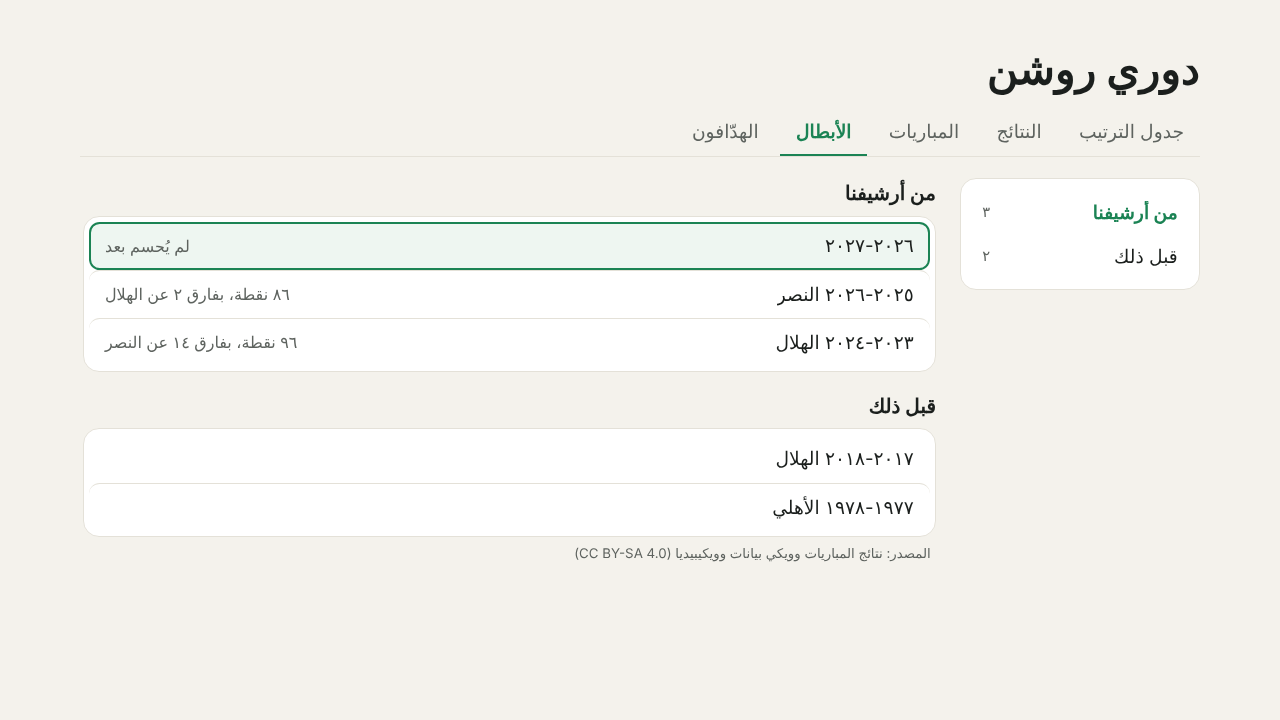
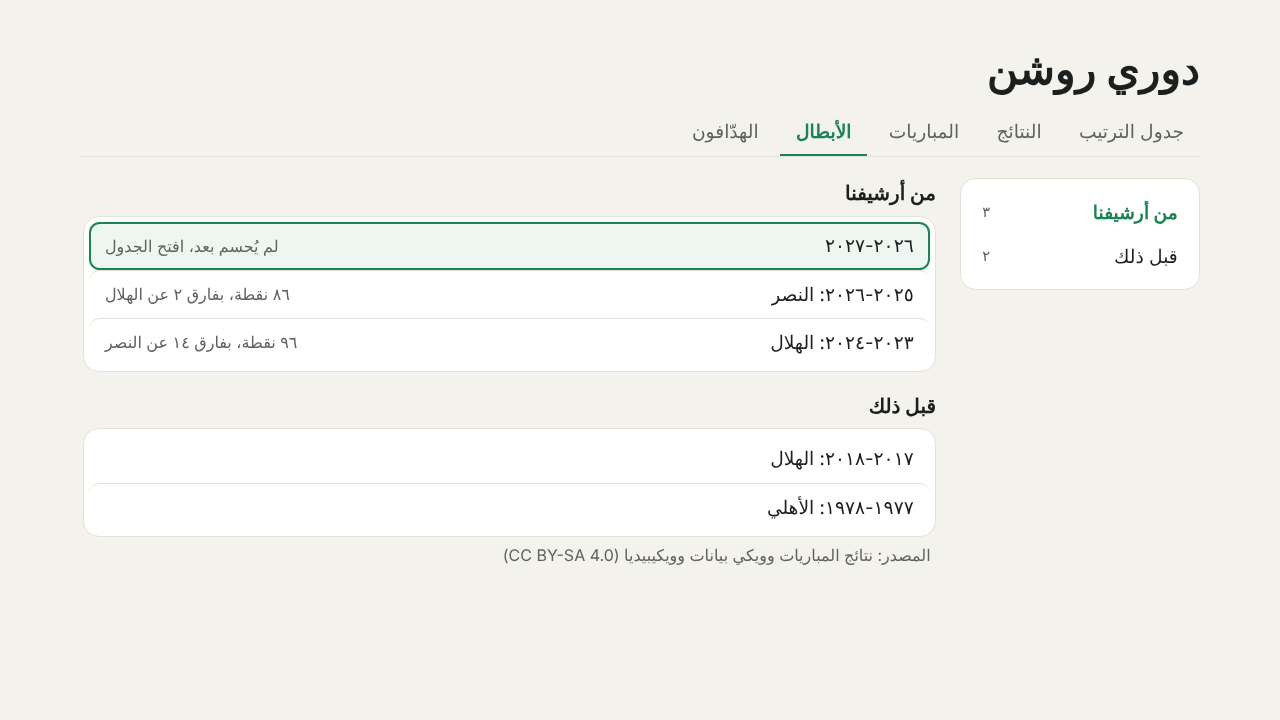
4.4 beta 2 honours, the UI review: the source line as big as the rows' muted text; «الموسم: النادي»; «لم يُحسم بعد، افتح الجدول» first, the focus on it; screenshots again

diff --git a/src/sports.js b/src/sports.js
@@ -367,7 +367,7 @@ function spScoreWatch(now){
 // its champions season by season and its top scorers from the weekly files (data-honours, urtv-data first: champions/ cross-checked, scorers/
 // CC BY-SA 4.0, their source said under them). A club's count of titles only when its league's list is complete; else its latest title only.
 const HW = {nowS:'الحالي', tableOf:'جدول الترتيب النهائي %s', resultsOf:'نتائج %s', scorersOf:'الهدّافون %s', champMark:'البطل',
-  undecided:'لم يُحسم بعد', ptsGap:'%s نقطة، بفارق %s عن %s', ptsLevel:'%s نقطة، بالتساوي مع %s', finalWon:'النهائي %s على %s',
+  undecided:'لم يُحسم بعد، افتح الجدول', ptsGap:'%s نقطة، بفارق %s عن %s', ptsLevel:'%s نقطة، بالتساوي مع %s', finalWon:'النهائي %s على %s',
   goalsFew:'%s أهداف', goalsMany:'%s هدفًا', fromArchive:'من أرشيفنا', older:'قبل ذلك', srcChamps:'المصدر: نتائج المباريات وويكي بيانات',
   srcChampsWp:'المصدر: نتائج المباريات وويكي بيانات وويكيبيديا (CC BY-SA 4.0)', srcScorers:'المصدر: ويكيبيديا وويكي بيانات (CC BY-SA 4.0)',
   noScorers:'لا نعرف هدّاف هذا الموسم بعد', noChamps:'لا نعرف أبطال هذا الدوري بعد', honours:'البطولات', lastTitle:'آخرها %s',
@@ -411,7 +411,7 @@ function honChampRow(v, c){
   const name = clubNm(c.ar, c.en || c.n, c.id ? String(c.id) : ''), them = c.vs || c.vn ? clubNm(c.var, c.vn, String(c.vs || '')) : '';
   const sub = c.pts != null && them ? fw(c.gap ? HW.ptsGap : HW.ptsLevel, ar(c.pts), ...(c.gap ? [ar(c.gap), them] : [them]))
     : Array.isArray(c.score) && them ? fw(HW.finalWon, ar(c.score[0]) + '-' + ar(c.score[1]), them) : '';
-  return mpItem(honSeasonName(c.s) + ' ' + name, sub, c.id ? () => mpGo({k: 'club', id: String(c.id)}) : () => {});
+  return mpItem(honSeasonName(c.s) + ': ' + name, sub, c.id ? () => mpGo({k: 'club', id: String(c.id)}) : () => {});
 }
 function honChamps(v, id, sp){
   const {list, file} = honChampList(id, sp), cur = sp && honOk(sp.season) ? String(sp.season) : '';

diff --git a/src/template.html b/src/template.html
@@ -836,7 +836,7 @@
   #mp-side::-webkit-scrollbar{display:none}
   #mp-side .fg svg{width:1em;height:1em;fill:none;stroke:currentColor;stroke-width:1.6;stroke-linejoin:round}
   #mp-side li.pin i{color:var(--fgr)}
-  #mp .mpsrc{margin:calc(var(--u)*12) calc(var(--u)*8) 0;font-size:calc(var(--u)*20);color:var(--fs)}   /* 4.5 the source under a list (CC BY-SA asks for it) */
+  #mp .mpsrc{margin:calc(var(--u)*12) calc(var(--u)*8) 0;font-size:calc(var(--u)*24);color:var(--fs)}   /* 4.5 a list's source (CC BY-SA asks for it): the rows' muted end text's size (.mpi i), never smaller, read from the couch at 720p */
   #mp-days{overflow:hidden}
   /* 4.3.3 a club's form: ف ت خ in their colours */
   .fm{display:inline-flex;gap:calc(var(--u)*10);font-size:calc(var(--u)*26);font-weight:700}
